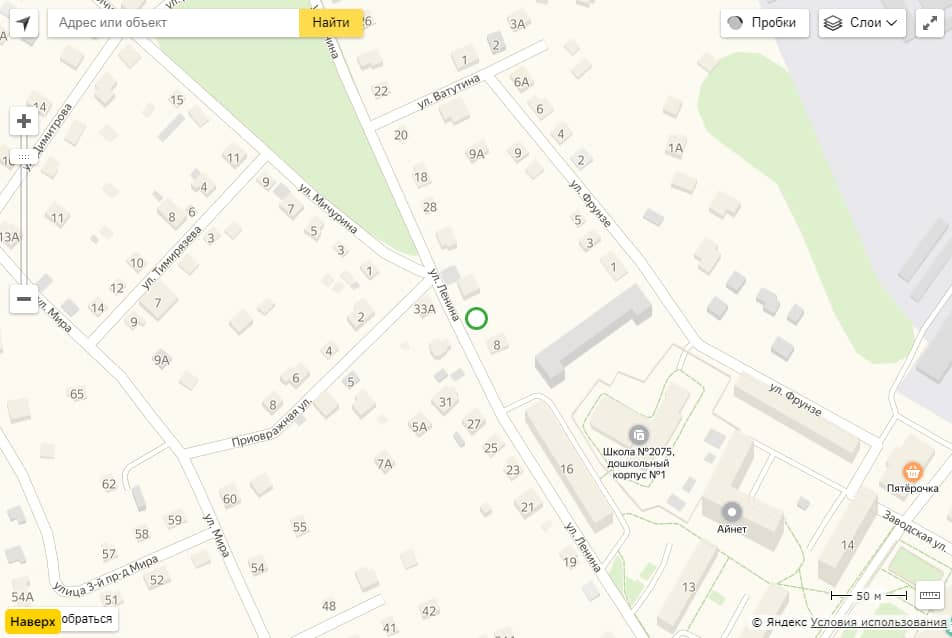
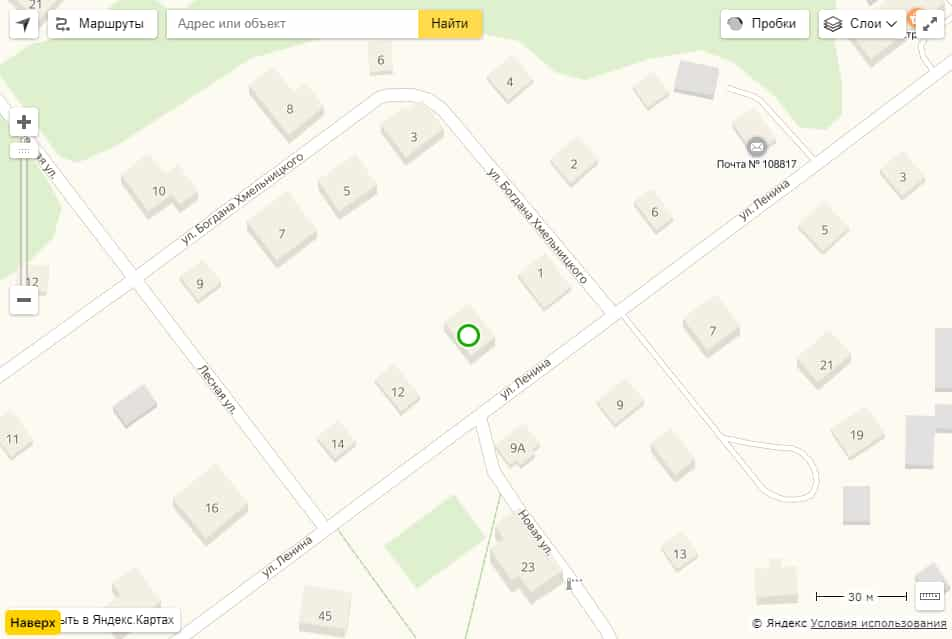
optimization

diff --git a/build/scripts/bundle.js b/build/scripts/bundle.js
@@ -1,1 +1,1 @@
-"use strict";var _typeof="function"==typeof Symbol&&"symbol"==typeof Symbol.iterator?function(obj){return typeof obj}:function(obj){return obj&&"function"==typeof Symbol&&obj.constructor===Symbol&&obj!==Symbol.prototype?"symbol":typeof obj};!function(e){var t={};function o(n){if(t[n])return t[n].exports;var i=t[n]={i:n,l:!1,exports:{}};return e[n].call(i.exports,i,i.exports,o),i.l=!0,i.exports}o.m=e,o.c=t,o.d=function(e,t,n){o.o(e,t)||Object.defineProperty(e,t,{enumerable:!0,get:n})},o.r=function(e){"undefined"!=typeof Symbol&&Symbol.toStringTag&&Object.defineProperty(e,Symbol.toStringTag,{value:"Module"}),Object.defineProperty(e,"__esModule",{value:!0})},o.t=function(e,t){if(1&t&&(e=o(e)),8&t)return e;if(4&t&&"object"==(void 0===e?"undefined":_typeof(e))&&e&&e.__esModule)return e;var n=Object.create(null);if(o.r(n),Object.defineProperty(n,"default",{enumerable:!0,value:e}),2&t&&"string"!=typeof e)for(var i in e)o.d(n,i,function(t){return e[t]}.bind(null,i));return n},o.n=function(e){var t=e&&e.__esModule?function(){return e.default}:function(){return e};return o.d(t,"a",t),t},o.o=function(e,t){return Object.prototype.hasOwnProperty.call(e,t)},o.p="",o(o.s=0)}([function(){document.addEventListener("DOMContentLoaded",function(){Vue.use(window.vuelidate.default),Vue.use(VueMask.VueMaskPlugin);var e=validators.required,t=validators.email,o=validators.minLength,n=validators.maxLength;new Vue({el:"#app",delimiters:["${","}"],data:{email:"",name:"",phone:"",mask:"+7(###)###-##-##",check:!1},methods:{submitFormOffer:function(){if(this.check=!0,this.$v.name.$error||this.$v.name.$invalid||this.$v.phone.$error||this.$v.phone.$invalid)this.check=!0;else{var _e={name:this.name,phone:this.phone};this.check=!1,console.log("Данные отправлены",_e)}},submitFormFeedback:function(){if(this.check=!0,this.$v.$invalid||this.$v.$error)this.check=!0;else{var _e2={email:this.email,name:this.name,phone:this.phone};this.check=!1,console.log("Данные отправлены",_e2)}}},validations:{email:{email:t,required:e},name:{required:e,minLength:o(2),maxLength:n(15)},phone:{required:e}}}),new LazyLoad({elements_selector:".js-lazy",threshold:$(window).height(),callback_load:function(){$(window).data("plugin_stellar")&&$(window).data("plugin_stellar").refresh()}});var i=$(".js-popup"),s=$(".js-open-popup"),a=$(".js-close-popup"),r=void 0;s.click(function(){clearInterval(r),i.addClass("popup_active"),r=setTimeout(function(){i.removeClass("popup_active")},5e3)}),a.click(function(){i.removeClass("popup_active")}),$(".js-btn-up").click(function(){$("html, body").animate({scrollTop:0},500)});var l=$(".js-slider"),c=$(".owl-nav");l.owlCarousel({items:3,margin:30,nav:!0,loop:!0,autoHeight:!1,onInitialized:function(){c.hasClass("disabled")&&c.removeClass("disabled")},onChanged:function(){c.hasClass("disabled")&&c.removeClass("disabled")},responsive:{768:{items:3,dots:!1,autoHeight:!1,autoWidth:!1},320:{items:1,dots:!1,autoHeight:!1,autoWidth:!1}}}),$(".next").click(function(){l.trigger("next.owl.carousel")}),$(".prev").click(function(){l.trigger("prev.owl.carousel")});var d=$(".slider").offset().top,u=$(".price__item"),p=$(".button-up"),h=$(".offer").offset().top;$(window).scroll(function(){$(document).scrollTop()>=d&&u.each(function(e,t){$(t).addClass("js-rise")}),$(document).scrollTop()>=h?p.removeClass("hide-btn").addClass("show-btn"):0===$(document).scrollTop()&&p.removeClass("show-btn").addClass("hide-btn")});var m=0;ymaps.ready(void $(".footer__map").hover(function(){if(0===m){var _e3=new ymaps.Map("map",{center:[55.43287307,37.2686305],zoom:17});_e3.geoObjects.add(new ymaps.Placemark([55.43287307,37.2686305],{balloonContent:"<strong>Мы здесь</strong>"},{preset:"islands#circleIcon",iconColor:"#3caa3c"})),_e3.behaviors.disable("scrollZoom")}},function(){m=1}))})}]);
+"use strict";var _typeof="function"==typeof Symbol&&"symbol"==typeof Symbol.iterator?function(obj){return typeof obj}:function(obj){return obj&&"function"==typeof Symbol&&obj.constructor===Symbol&&obj!==Symbol.prototype?"symbol":typeof obj};!function(e){var t={};function o(n){if(t[n])return t[n].exports;var a=t[n]={i:n,l:!1,exports:{}};return e[n].call(a.exports,a,a.exports,o),a.l=!0,a.exports}o.m=e,o.c=t,o.d=function(e,t,n){o.o(e,t)||Object.defineProperty(e,t,{enumerable:!0,get:n})},o.r=function(e){"undefined"!=typeof Symbol&&Symbol.toStringTag&&Object.defineProperty(e,Symbol.toStringTag,{value:"Module"}),Object.defineProperty(e,"__esModule",{value:!0})},o.t=function(e,t){if(1&t&&(e=o(e)),8&t)return e;if(4&t&&"object"==(void 0===e?"undefined":_typeof(e))&&e&&e.__esModule)return e;var n=Object.create(null);if(o.r(n),Object.defineProperty(n,"default",{enumerable:!0,value:e}),2&t&&"string"!=typeof e)for(var a in e)o.d(n,a,function(t){return e[t]}.bind(null,a));return n},o.n=function(e){var t=e&&e.__esModule?function(){return e.default}:function(){return e};return o.d(t,"a",t),t},o.o=function(e,t){return Object.prototype.hasOwnProperty.call(e,t)},o.p="",o(o.s=0)}([function(){document.addEventListener("DOMContentLoaded",function(){Vue.use(window.vuelidate.default),Vue.use(VueMask.VueMaskPlugin);var e=validators.required,t=validators.email,o=validators.minLength,n=validators.maxLength;new Vue({el:"#app",delimiters:["${","}"],data:{email:"",name:"",phone:"",mask:"+7(###)###-##-##",check:!1},methods:{submitFormOffer:function(){if(this.check=!0,this.$v.name.$error||this.$v.name.$invalid||this.$v.phone.$error||this.$v.phone.$invalid)this.check=!0;else{var _e={name:this.name,phone:this.phone};this.check=!1,console.log("Данные отправлены",_e)}},submitFormFeedback:function(){if(this.check=!0,this.$v.$invalid||this.$v.$error)this.check=!0;else{var _e2={email:this.email,name:this.name,phone:this.phone};this.check=!1,console.log("Данные отправлены",_e2)}}},validations:{email:{email:t,required:e},name:{required:e,minLength:o(2),maxLength:n(15)},phone:{required:e}}}),new LazyLoad({elements_selector:".js-lazy",threshold:$(window).height(),callback_load:function(){$(window).data("plugin_stellar")&&$(window).data("plugin_stellar").refresh()}});var a=$(".js-popup"),s=$(".js-open-popup"),i=$(".js-close-popup"),r=void 0;s.click(function(){clearInterval(r),a.addClass("popup_active"),r=setTimeout(function(){a.removeClass("popup_active")},5e3)}),i.click(function(){a.removeClass("popup_active")}),$(".js-btn-up").click(function(){$("html, body").animate({scrollTop:0},500)});var l=$(".js-slider"),c=$(".owl-nav");l.owlCarousel({items:3,margin:30,nav:!0,loop:!0,autoHeight:!1,onInitialized:function(){c.hasClass("disabled")&&c.removeClass("disabled")},onChanged:function(){c.hasClass("disabled")&&c.removeClass("disabled")},responsive:{768:{items:3,dots:!1,autoHeight:!1,autoWidth:!1},320:{items:1,dots:!1,autoHeight:!1,autoWidth:!1}}}),$(".next").click(function(){l.trigger("next.owl.carousel")}),$(".prev").click(function(){l.trigger("prev.owl.carousel")});var d=$(".slider").offset().top,u=$(".price__item"),p=$(".button-up"),h=$(".offer").offset().top,m=$(".guarantee").offset().top,f=0;$(window).scroll(function(){$(document).scrollTop()>=d&&u.each(function(e,t){$(t).addClass("js-rise")}),$(document).scrollTop()>=m&&0===f&&($(".footer__map").append('<script type="text/javascript" charset="utf-8" async src="https://api-maps.yandex.ru/services/constructor/1.0/js/?um=constructor%3Aa6598ded4d16efd464668430f23da4cf05f682a6e648171fa8a3429d7ae2205c&amp;width=100%25&amp;height=640&amp;lang=ru_RU&amp;scroll=false"><\/script>'),f+=1),$(document).scrollTop()>=h?p.removeClass("hide-btn").addClass("show-btn"):0===$(document).scrollTop()&&p.removeClass("show-btn").addClass("hide-btn")})})}]);

diff --git a/src/scripts/index.js b/src/scripts/index.js
@@ -151,6 +151,8 @@ document.addEventListener('DOMContentLoaded', () => {
   const $items = $('.price__item');
   const $up = $('.button-up');
   const $pointBtn = $('.offer').offset().top;
+  const $pointMap = $('.guarantee').offset().top;
+  let count = 0;
 
   $(window).scroll(() => {
     if ($(document).scrollTop() >= $pointStart) {
@@ -159,38 +161,16 @@ document.addEventListener('DOMContentLoaded', () => {
       });
     }
 
+    if ($(document).scrollTop() >= $pointMap && count === 0) {
+      $('.footer__map').append('<script type="text/javascript" charset="utf-8" async src="https://api-maps.yandex.ru/services/constructor/1.0/js/?um=constructor%3Aa6598ded4d16efd464668430f23da4cf05f682a6e648171fa8a3429d7ae2205c&amp;width=100%25&amp;height=640&amp;lang=ru_RU&amp;scroll=false"></script>');
+      count +=1;
+    }
+
     if ($(document).scrollTop() >= $pointBtn) {
-      $up.removeClass('hide-btn').addClass('show-btn');;
+      $up.removeClass('hide-btn').addClass('show-btn');
     } else if ($(document).scrollTop() === 0) {
       $up.removeClass('show-btn').addClass('hide-btn');
     }
   });
-
-
-  //map
-  let count = 0;
-  ymaps.ready(init());
-
-  function init() {
-    $('.footer__map').hover(function () {
-      if (count === 0) {
-        const myMap = new ymaps.Map("map", {
-          center: [55.43287307, 37.26863050],
-          zoom: 17
-        });
-
-        myMap.geoObjects.add(new ymaps.Placemark([55.43287307, 37.26863050], {
-          balloonContent: '<strong>Мы здесь</strong>'
-        }, {
-          preset: 'islands#circleIcon',
-          iconColor: '#3caa3c'
-        }));
-
-        myMap.behaviors.disable('scrollZoom');
-      }
-    }, function () {
-      count = 1;
-    });
-  }
 
 });
